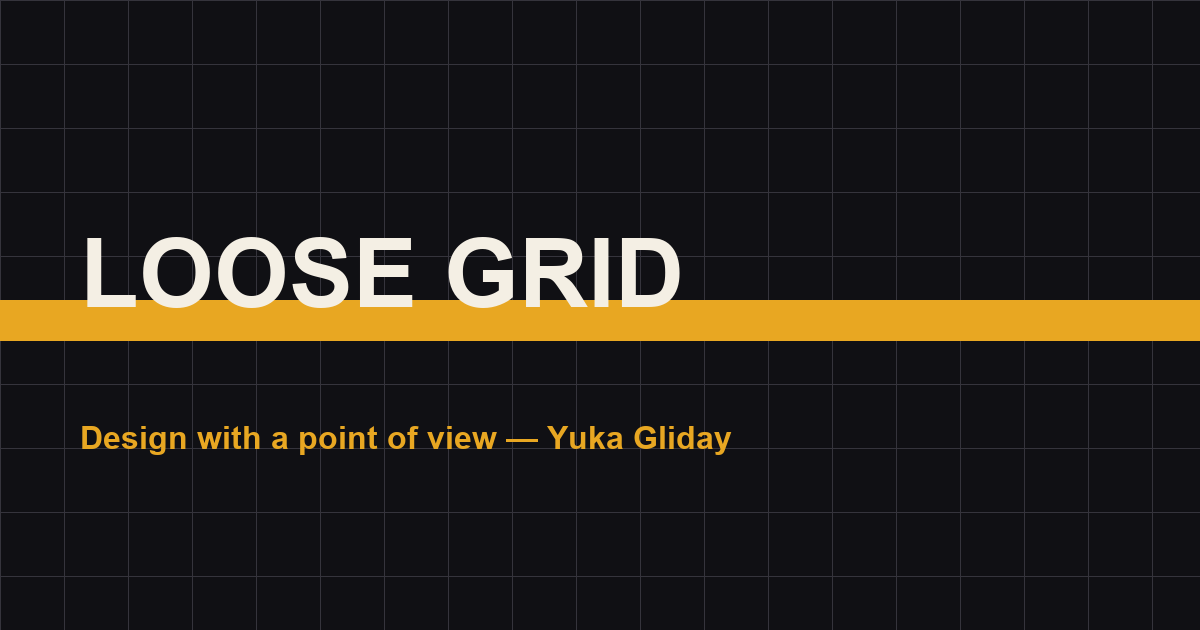
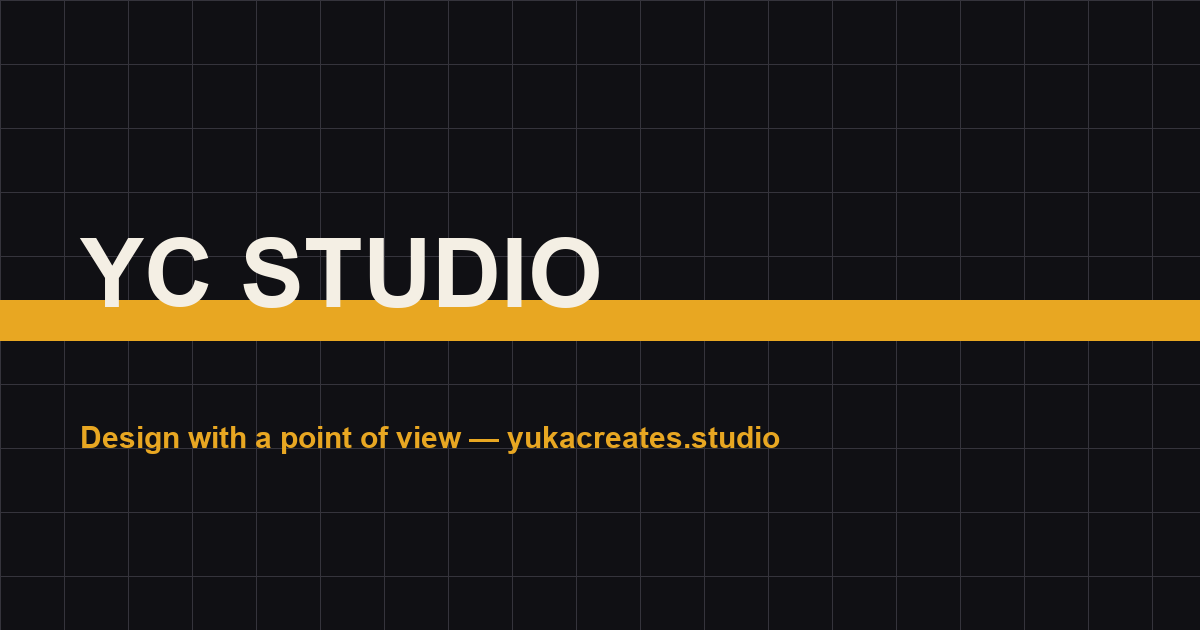
Rebrand to YC Studio (yukacreates.studio)
Site name, description, OG image, package name and docs updated to
the final chosen brand: YC Studio / YukaCreates, at the new custom
domain yukacreates.studio. The "loose grid" hairline motif in the
design system is unchanged; it's now just a visual device rather than
the brand's name.

Changed region(s): [[0.0617, 0.3619, 0.5858, 0.5127], [0.0617, 0.6635, 0.6475, 0.7238]]

diff --git a/src/content/site.ts b/src/content/site.ts
@@ -1,10 +1,11 @@
 export const site = {
-  name: "Loose Grid",
+  name: "YC Studio",
+  fullName: "YukaCreates Studio",
   byline: "The studio practice of Yuka Gliday",
   tagline: "An outcome of beautiful errors.",
   description:
-    "Loose Grid is the multidisciplinary design studio of Yuka Gliday — branding, art direction, UX/UI and graphic design for brands who want work with a point of view.",
-  url: "https://loosegrid.studio",
+    "YC Studio (YukaCreates) is the multidisciplinary design studio of Yuka Gliday — branding, art direction, UX/UI and graphic design for brands who want work with a point of view.",
+  url: "https://yukacreates.studio",
   email: "barnabasyuka@gmail.com",
   phone: "+254 717 850 546",
   phoneHref: "tel:+254717850546",

diff --git a/docs/creative-direction.md b/docs/creative-direction.md
@@ -1,8 +1,10 @@
-# Creative Direction — Loose Grid (Yuka Gliday)
+# Creative Direction — YC Studio (Yuka Gliday)
+
+> **2026-09-28 update:** the brand name landed on **YC Studio** (full name "YukaCreates Studio", domain `yukacreates.studio`), replacing the working name "Loose Grid" used during initial direction-setting below. The "loose grid" *visual motif* (the broken hairline grid) is kept as a design-system device — see `design-system.md` — it's just no longer the brand's name. `site.name`/`site.fullName` in `src/content/site.ts` are the source of truth for current naming.
 
 ## Decisions locked in (2026-09-17)
 
-- **Brand name:** Loose Grid — a design-insider pun: a grid that's deliberately, confidently broken. Byline: "Loose Grid — the studio practice of Yuka Gliday."
+- **Brand name (superseded — see note above):** Loose Grid — a design-insider pun: a grid that's deliberately, confidently broken. Byline: "Loose Grid — the studio practice of Yuka Gliday."
 - **Positioning:** premium, multidisciplinary creative consultancy (branding, art direction, UX/UI, campaign/graphic design), not a mass-market template shop.
 - **Client work:** all confirmed shareable by name (Tusker, NCBA, Smirnoff, Dentsu "School of Influence", Beacon of Hope, Save The Elephants, Shopzetu, Uchumba, logofolio clients).
 - **Bio:** design-consultancy framing only (no music-producer angle).

diff --git a/README.md b/README.md
@@ -1,6 +1,6 @@
-# Loose Grid
+# YC Studio
 
-The portfolio website for **Loose Grid** — the design studio practice of Yuka Gliday (branding, art direction, UX/UI and graphic design).
+The portfolio website for **YC Studio** (YukaCreates) — the design studio practice of Yuka Gliday (branding, art direction, UX/UI and graphic design). Live at [yukacreates.studio](https://yukacreates.studio).
 
 ## Overview
 
@@ -68,6 +68,6 @@ docs/                   research, creative direction, design system and content 
 - `src/app/favicon.ico`, `src/app/icon.png`, `src/app/apple-icon.png`, `public/og-image.png` are programmatically generated on-brand placeholders, not a finished logomark.
 - Several open content questions are tracked in `docs/content-to-confirm.md` (contact details to publish, rate-card approach, a couple of unconfirmed case studies).
 
-## Deployment recommendation
+## Deployment
 
-This is a static-friendly Next.js app (all pages either fully static or statically generated via `generateStaticParams`). Recommended: **Vercel** (zero-config for Next.js) or **Netlify**. GitHub Pages is not recommended since it doesn't support Next.js's image optimisation route (`/_next/image`) without extra configuration.
+Deployed on **Vercel**, connected to this GitHub repo — every push to `main` redeploys automatically. Custom domain: `yukacreates.studio`.

diff --git a/docs/design-system.md b/docs/design-system.md
@@ -1,4 +1,6 @@
-# Design System — Loose Grid
+# Design System — YC Studio
+
+> Brand name is now **YC Studio** (yukacreates.studio) — "Loose Grid" below refers only to the recurring hairline-grid *visual motif*, which is unchanged.
 
 Implemented as CSS custom properties + Tailwind v4's CSS-first `@theme` in [globals.css](../src/app/globals.css).
 

diff --git a/docs/site-structure.md b/docs/site-structure.md
@@ -1,4 +1,6 @@
-# Site Structure — Loose Grid
+# Site Structure — YC Studio
+
+> Brand name is now **YC Studio** (yukacreates.studio) — see `creative-direction.md` for the naming history; "Loose Grid" below was the working name.
 
 ## Pages
 
